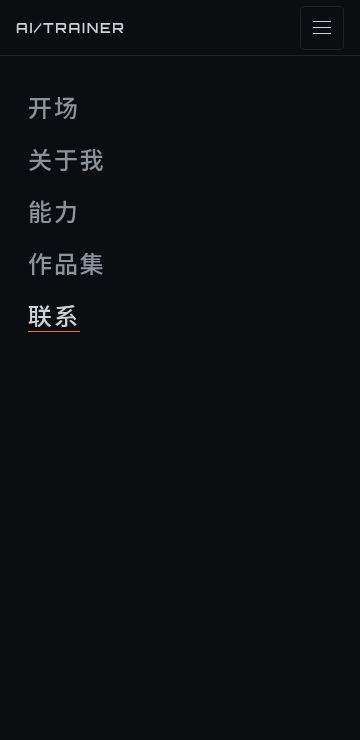
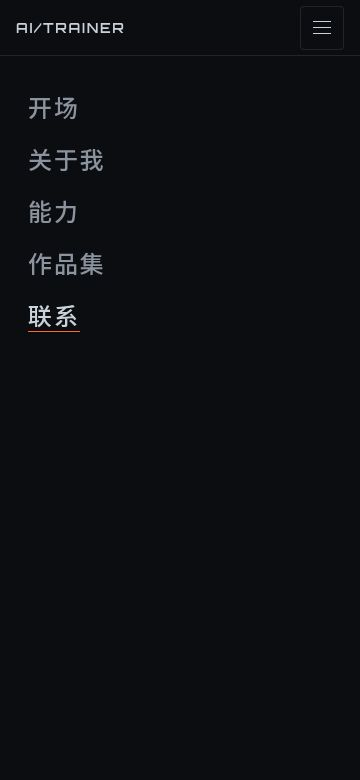
docs(stage-3): acceptance, measurements, screenshots

diff --git a/reports/stage-3/acceptance.md b/reports/stage-3/acceptance.md
@@ -1,0 +1,19 @@
+# 阶段 3 验收（关于我 / 能力 / 联系）
+
+分支 `feat/stage-3-about`（基于 425fb14）。预览：https://97515607.ai-trainer-site.pages.dev（提交 139b01f），分支预览 https://feat-stage-3-about.ai-trainer-site.pages.dev。
+测量脚本 `measure/p3.mjs`（puppeteer-core，有头 Chrome）。结果：`measure/p3-preview-windows.json`（Windows，RTX 3060 Laptop，Chrome 156.0.8078.80，对预览 URL）与 `measure/p3-box.json`（Linux 软件渲染，本地 out/）。
+
+| # | 检查项 | 结果 | 证据 |
+|---|---|---|---|
+| 1 | 三个区段按占位文案实现，文案集中在 `content/site.ts` | ✅ | About/Skills/Contact/Nav/Footer 均从 `SITE` 读取；`shots/bp*-{about,skills,contact}.jpg` |
+| 2 | 「关于我」文字叠在机器人两侧，移动端改为上下排列 | ✅ | 1024/1440：leftOfFigure=rightOfFigure=true；360/768：figureAboveText=true，无横向溢出 |
+| 3 | HUD 卡片、按钮、标签、导航、自定义光标、磁吸悬停完成 | ✅ | 磁吸：半径内 `translate(12px, 0px)`，移出复位；光标悬停 data-hover=1；360 菜单展开 `shots/bp360-menu-open.jpg` |
+| 4 | 3D、磁吸、光标仅在 ≥1024 + hover/fine + 未 reduced-motion 时启用 | ✅ | 1440/1024 fine：开启；1023、768、1440 reduced-motion、1440 触屏：backdrop=off、无 GLB 请求、无光标、无磁吸 |
+| 5 | 「关于我」主体为视频末帧机器人定格图 | ✅ | 中央 figure 使用 INTRO_MEDIA.still（阶段 2 末帧） |
+| 6 | 3D 背景装饰渐入、随鼠标转头、靠近有反应、懒加载、按条件开关 | ✅ | scrollY=0：0 个 GLB 请求，state=idle；滚到 About 后新增 5 个 JS chunk + robot.v1.glb，state=ready；`shots/3d-head-left-right-near.jpg`（左/右转头，靠近时面罩增亮）；WebGL 不可用时降级为不渲染，页面不崩溃 |
+| 7 | 3D 模型符合第 7 节：CC0/CC-BY 记入 licenses.md；GLB ≤1.5MB、≤30k 面；≥3 候选 | ✅ | CC0 1.0（`../licenses.md`）；185,832 B，3,237 三角面，0 贴图；8 个候选见 `candidates.md` |
+| v4 | 桌面 ≥55fps | ✅ | Windows 预览 fpsSamples [165, 165, 165, 165, 165.1]（受 165Hz 显示器刷新率限制） |
+| 8 | `--text-dim` #8B949E，在 --panel 与 --bg 上 ≥4.5:1 | ✅ | 5.38:1（panel）、6.33:1（bg） |
+| 9 | 360 / 768 / 1024 / 1440 四个断点显示正常 | ✅ | 四个宽度均无横向溢出、无控制台错误；能力卡 1/2/4/4 列 |
+
+lint / tsc / prettier / build 全部通过；首屏 JS 111 kB，three.js 不在首屏包内。
